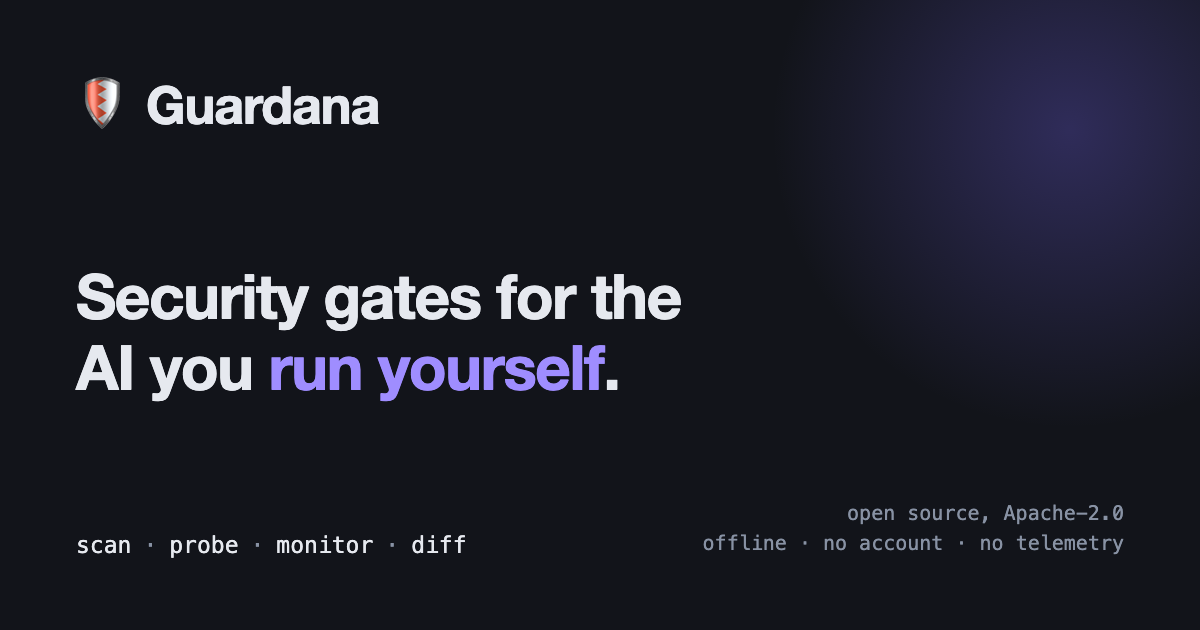
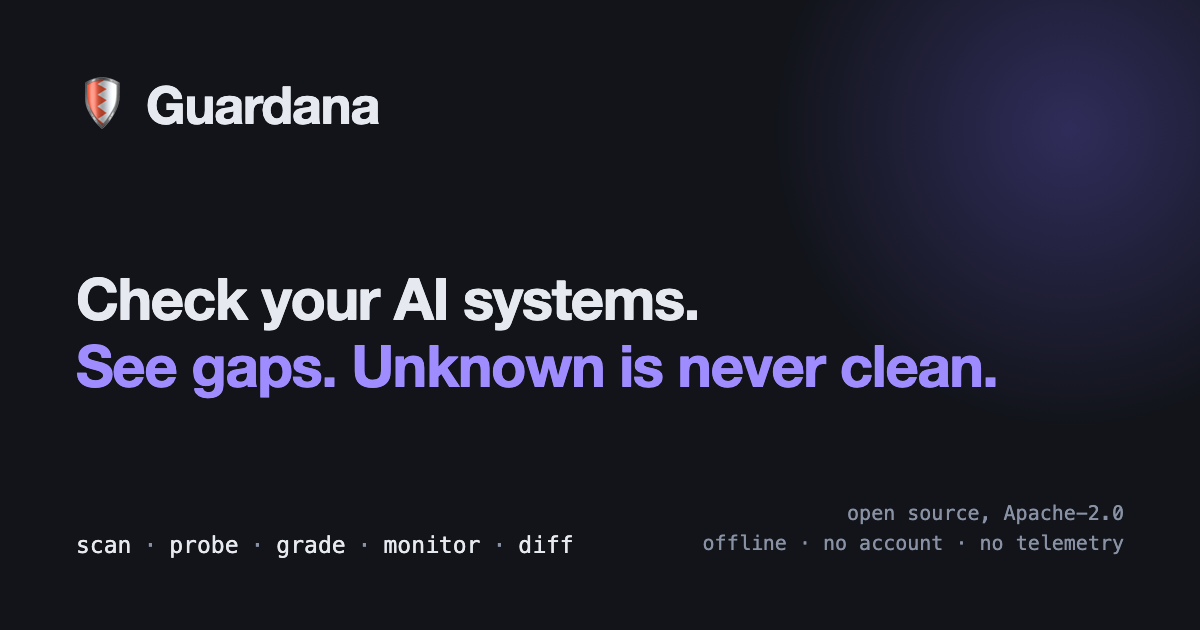
fix(site): make the share card say what the landing page says (#395)
The link preview image still carried the tagline from before the
landing page was rebuilt ("Security gates for the AI you run yourself")
and four verbs. The card now shows the page's headline verbatim, "Check
your AI systems. See gaps. Unknown is never clean.", and the five
verbs scan, probe, grade, monitor and diff; og:image:alt follows it.
site/og.png is re-rendered from scripts/og_card.html with headless
Chrome at 1200x630, as the card's source describes.

A new test compares the card's h1 with the landing page's h1 and
requires og:image:alt to contain it, so the next headline change fails
the suite instead of leaving a stale card. The PNG itself is still not
readable by a test; the test covers its source.

Changed region(s): [[0.0617, 0.4222, 0.8325, 0.6333], [0.2158, 0.8444, 0.4008, 0.8746], [0.4317, 0.8444, 0.4933, 0.8746]]

diff --git a/scripts/og_card.html b/scripts/og_card.html
@@ -13,10 +13,8 @@
   schedule.
 
   **It states no rule count, and that is the point.** A number baked into a PNG is
-  a claim no test can read — the exact failure this repository has now had on the
-  landing page, in the README and in the GitHub repository description. What is
-  here instead is the four verbs and the licence, which do not move between
-  releases.
+  a claim no test can read. What is here instead is the landing page's headline,
+  which a test compares with the page, and the verbs and the licence.
 
   Fonts are the stack the page falls back to, not the webfont: a headless render
   has no network, and a card that silently rendered in Times because the font
@@ -43,9 +41,10 @@
   .mark{font-size:52px; line-height:1}
   .name{font-size:52px; font-weight:700; letter-spacing:-.02em}
   h1{
-    font-size:62px; font-weight:600; line-height:1.14; letter-spacing:-.022em;
-    max-width:19ch; margin-top:30px;
+    font-size:58px; font-weight:600; line-height:1.16; letter-spacing:-.022em;
+    margin-top:30px;
   }
+  h1 span, h1 em{display:block}
   h1 em{font-style:normal; color:#9F8DFF}
   .verbs{
     display:flex; gap:12px; font-family:"IBM Plex Mono",ui-monospace,"SF Mono",Menlo,monospace;
@@ -62,11 +61,11 @@
 <body>
   <div class="row"><span class="mark">🛡</span><span class="name">Guardana</span></div>
 
-  <h1>Security gates for the AI you <em>run yourself</em>.</h1>
+  <h1><span>Check your AI systems.</span><em>See gaps. Unknown is never clean.</em></h1>
 
   <div class="foot">
     <div class="verbs">
-      <b>scan</b><span>·</span><b>probe</b><span>·</span><b>monitor</b><span>·</span><b>diff</b>
+      <b>scan</b><span>·</span><b>probe</b><span>·</span><b>grade</b><span>·</span><b>monitor</b><span>·</span><b>diff</b>
     </div>
     <div class="lic">
       open source, Apache-2.0<br>

diff --git a/site/index.html b/site/index.html
@@ -16,7 +16,7 @@
 <meta property="og:image:type" content="image/png">
 <meta property="og:image:width" content="1200">
 <meta property="og:image:height" content="630">
-<meta property="og:image:alt" content="Guardana — security gates for the AI you run yourself. scan · probe · monitor · diff. Open source, Apache-2.0, offline, no account, no telemetry.">
+<meta property="og:image:alt" content="Guardana — Check your AI systems. See gaps. Unknown is never clean. scan · probe · grade · monitor · diff. Open source, Apache-2.0, offline, no account, no telemetry.">
 <!-- X ignores og:image sizing without this; every other field falls back to og:*. -->
 <meta name="twitter:card" content="summary_large_image">
 <meta name="theme-color" content="#5B3DF5">

diff --git a/packages/guardana-core/tests/test_site_sharing_and_llms_txt.py b/packages/guardana-core/tests/test_site_sharing_and_llms_txt.py
@@ -101,6 +101,26 @@ def test_the_share_image_states_no_count_that_could_go_stale() -> None:
     )
 
 
+def _headline(html: str) -> str:
+    match = re.search(r"<h1[^>]*>(.*?)</h1>", html, re.DOTALL)
+    assert match is not None, "no <h1> to compare"
+    return " ".join(re.sub(r"<[^>]+>", " ", match.group(1)).split())
+
+
+def test_the_share_card_says_what_the_landing_headline_says() -> None:
+    """The card is pixels nobody re-reads, so its source and its alt text follow the page's h1."""
+    headline = _headline(_page())
+    card = (_repo() / "scripts" / "og_card.html").read_text(encoding="utf-8")
+
+    assert _headline(card) == headline, (
+        f"scripts/og_card.html says {_headline(card)!r} and the landing page says "
+        f"{headline!r}; update the card, re-render site/og.png and fix og:image:alt"
+    )
+    assert headline in _meta("og:image:alt"), (
+        f"og:image:alt does not contain the landing headline {headline!r}"
+    )
+
+
 def test_the_page_points_at_llms_txt_and_the_file_is_there() -> None:
     """A link element and a missing file is a 404 offered to every model that follows it."""
     page = _page()
